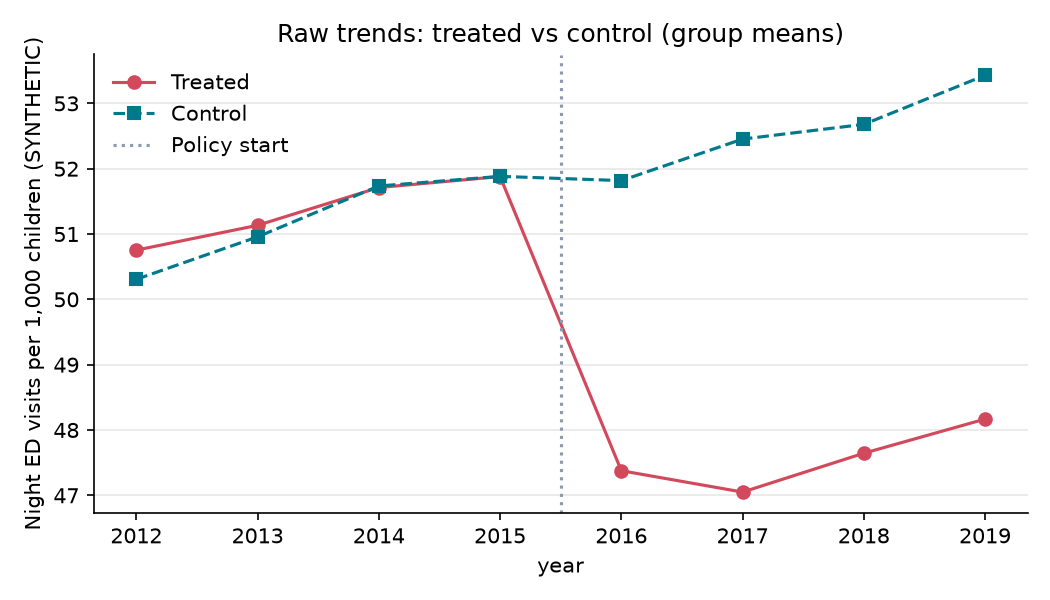
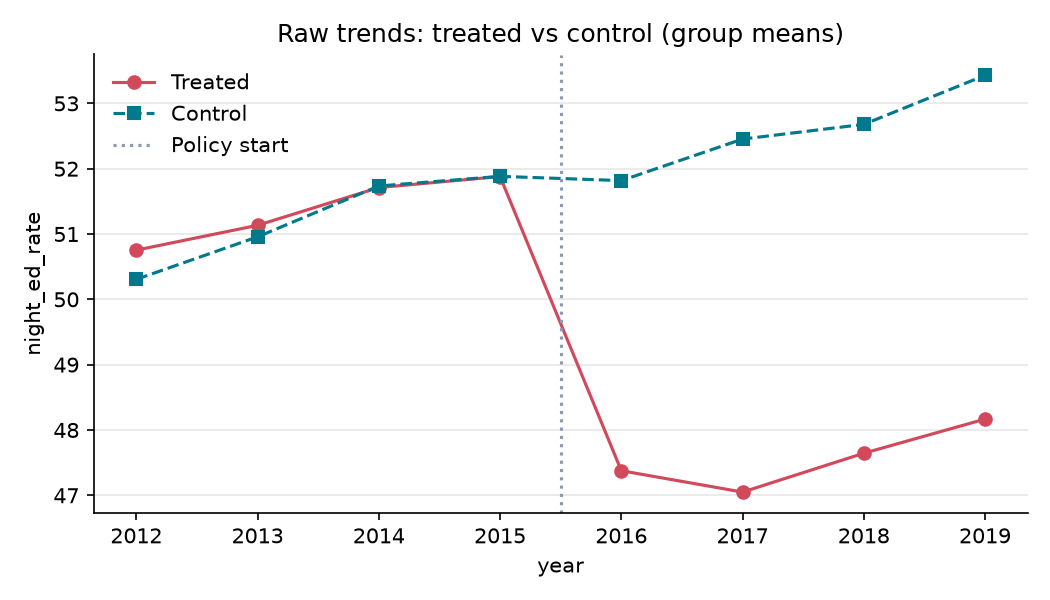
docs(example): add flow run outputs for the sample case
Claude-Session: https://claude.ai/code/session_01EMnmZPBD5PQJW1UQAARN7q

diff --git a/cases/_example_night_clinic/report.md b/cases/_example_night_clinic/report.md
@@ -7,6 +7,8 @@
 
 **종합 판정**: ✅ 식별됨 (가정 하에서)
 
+**요약**: 정책 도입 후 처치집단의 소아 야간 경증 응급실 방문율은(는) 통제집단 대비 평균 -5.03 건/천명 변화한 것으로 추정됩니다 (95% CI -6.11 ~ -3.96). 이 해석은 plan.yaml 의 식별 가정이 성립할 때에만 유효하며, 자동 점검에서 가정이 반박되지 않았다는 뜻이지 검증되었다는 뜻은 아닙니다.
+
 ## 1. 설계
 
 - 분석 단위: 시군구 (`region_id`), 기간 2012–2019 (year)
@@ -20,7 +22,6 @@
 | 방법 | 결과변수 | 추정치 | 95% CI | p | N | 클러스터 | 판정 |
 |---|---|---:|---|---:|---:|---:|---|
 | event_study | night_ed_rate | -5.033 | [-6.105, -3.960] | <0.001 | 640 | 80 | ✅ 식별됨 (가정 하에서) |
-| did_twfe | night_ed_rate | -5.185 | [-5.956, -4.413] | <0.001 | 640 | 80 | ✅ 식별됨 (가정 하에서) |
 
 ![Raw trends](figures/raw_trends.png)
 
